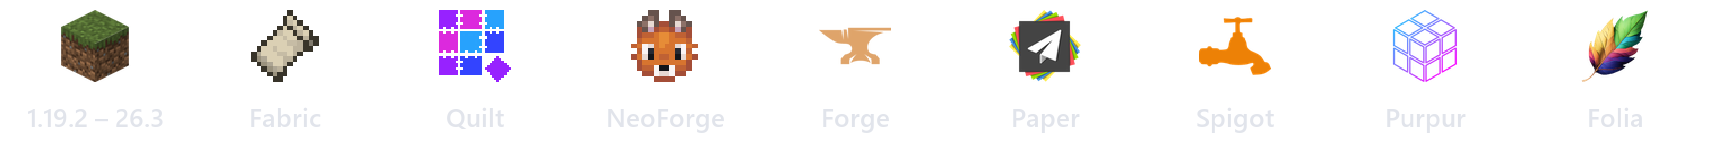
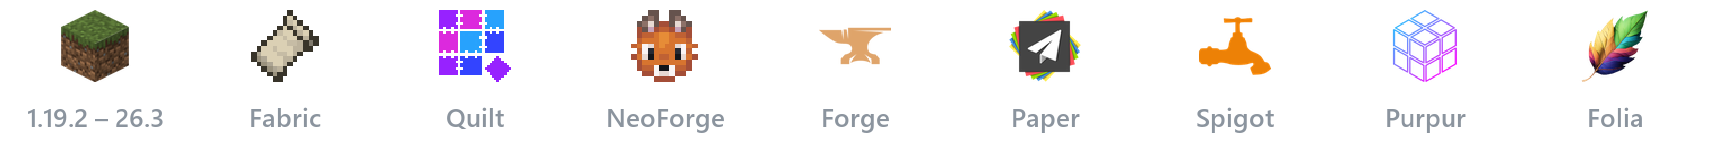
README: one platforms picture with grey names, readable on both themes

diff --git a/README.ru.md b/README.ru.md
@@ -12,7 +12,7 @@
 
 [Обзор](#обзор) · [Возможности](#возможности) · [Установка](#установка) · [Версии](#поддерживаемые-версии) · [Вопросы](#частые-вопросы) · [Для серверов](docs/server.md) · [Помочь проекту](CONTRIBUTING.md)
 
-<picture><source media="(prefers-color-scheme: dark)" srcset="docs/images/platforms-strip.png"><img src="docs/images/platforms-strip-light.png" alt="Minecraft 1.19.2 – 26.3: Fabric, Quilt, NeoForge, Forge, Paper, Spigot, Purpur, Folia" width="855"></picture>
+<img src="docs/images/platforms-strip.png" alt="Minecraft 1.19.2 – 26.3: Fabric, Quilt, NeoForge, Forge, Paper, Spigot, Purpur, Folia" width="855">
 
 </div>
 

diff --git a/README.uk.md b/README.uk.md
@@ -12,7 +12,7 @@
 
 [Огляд](#огляд) · [Можливості](#можливості) · [Встановлення](#встановлення) · [Версії](#підтримувані-версії) · [Питання](#часті-питання) · [Для серверів](docs/server.md) · [Долучитися](CONTRIBUTING.md)
 
-<picture><source media="(prefers-color-scheme: dark)" srcset="docs/images/platforms-strip.png"><img src="docs/images/platforms-strip-light.png" alt="Minecraft 1.19.2 – 26.3: Fabric, Quilt, NeoForge, Forge, Paper, Spigot, Purpur, Folia" width="855"></picture>
+<img src="docs/images/platforms-strip.png" alt="Minecraft 1.19.2 – 26.3: Fabric, Quilt, NeoForge, Forge, Paper, Spigot, Purpur, Folia" width="855">
 
 </div>
 

diff --git a/README.md b/README.md
@@ -12,7 +12,7 @@
 
 [Overview](#overview) · [Features](#features) · [Installation](#installation) · [Versions](#supported-versions) · [FAQ](#faq) · [Server guide](docs/server.md) · [Contributing](CONTRIBUTING.md)
 
-<picture><source media="(prefers-color-scheme: dark)" srcset="docs/images/platforms-strip.png"><img src="docs/images/platforms-strip-light.png" alt="Minecraft 1.19.2 – 26.3: Fabric, Quilt, NeoForge, Forge, Paper, Spigot, Purpur, Folia" width="855"></picture>
+<img src="docs/images/platforms-strip.png" alt="Minecraft 1.19.2 – 26.3: Fabric, Quilt, NeoForge, Forge, Paper, Spigot, Purpur, Folia" width="855">
 
 </div>
 
